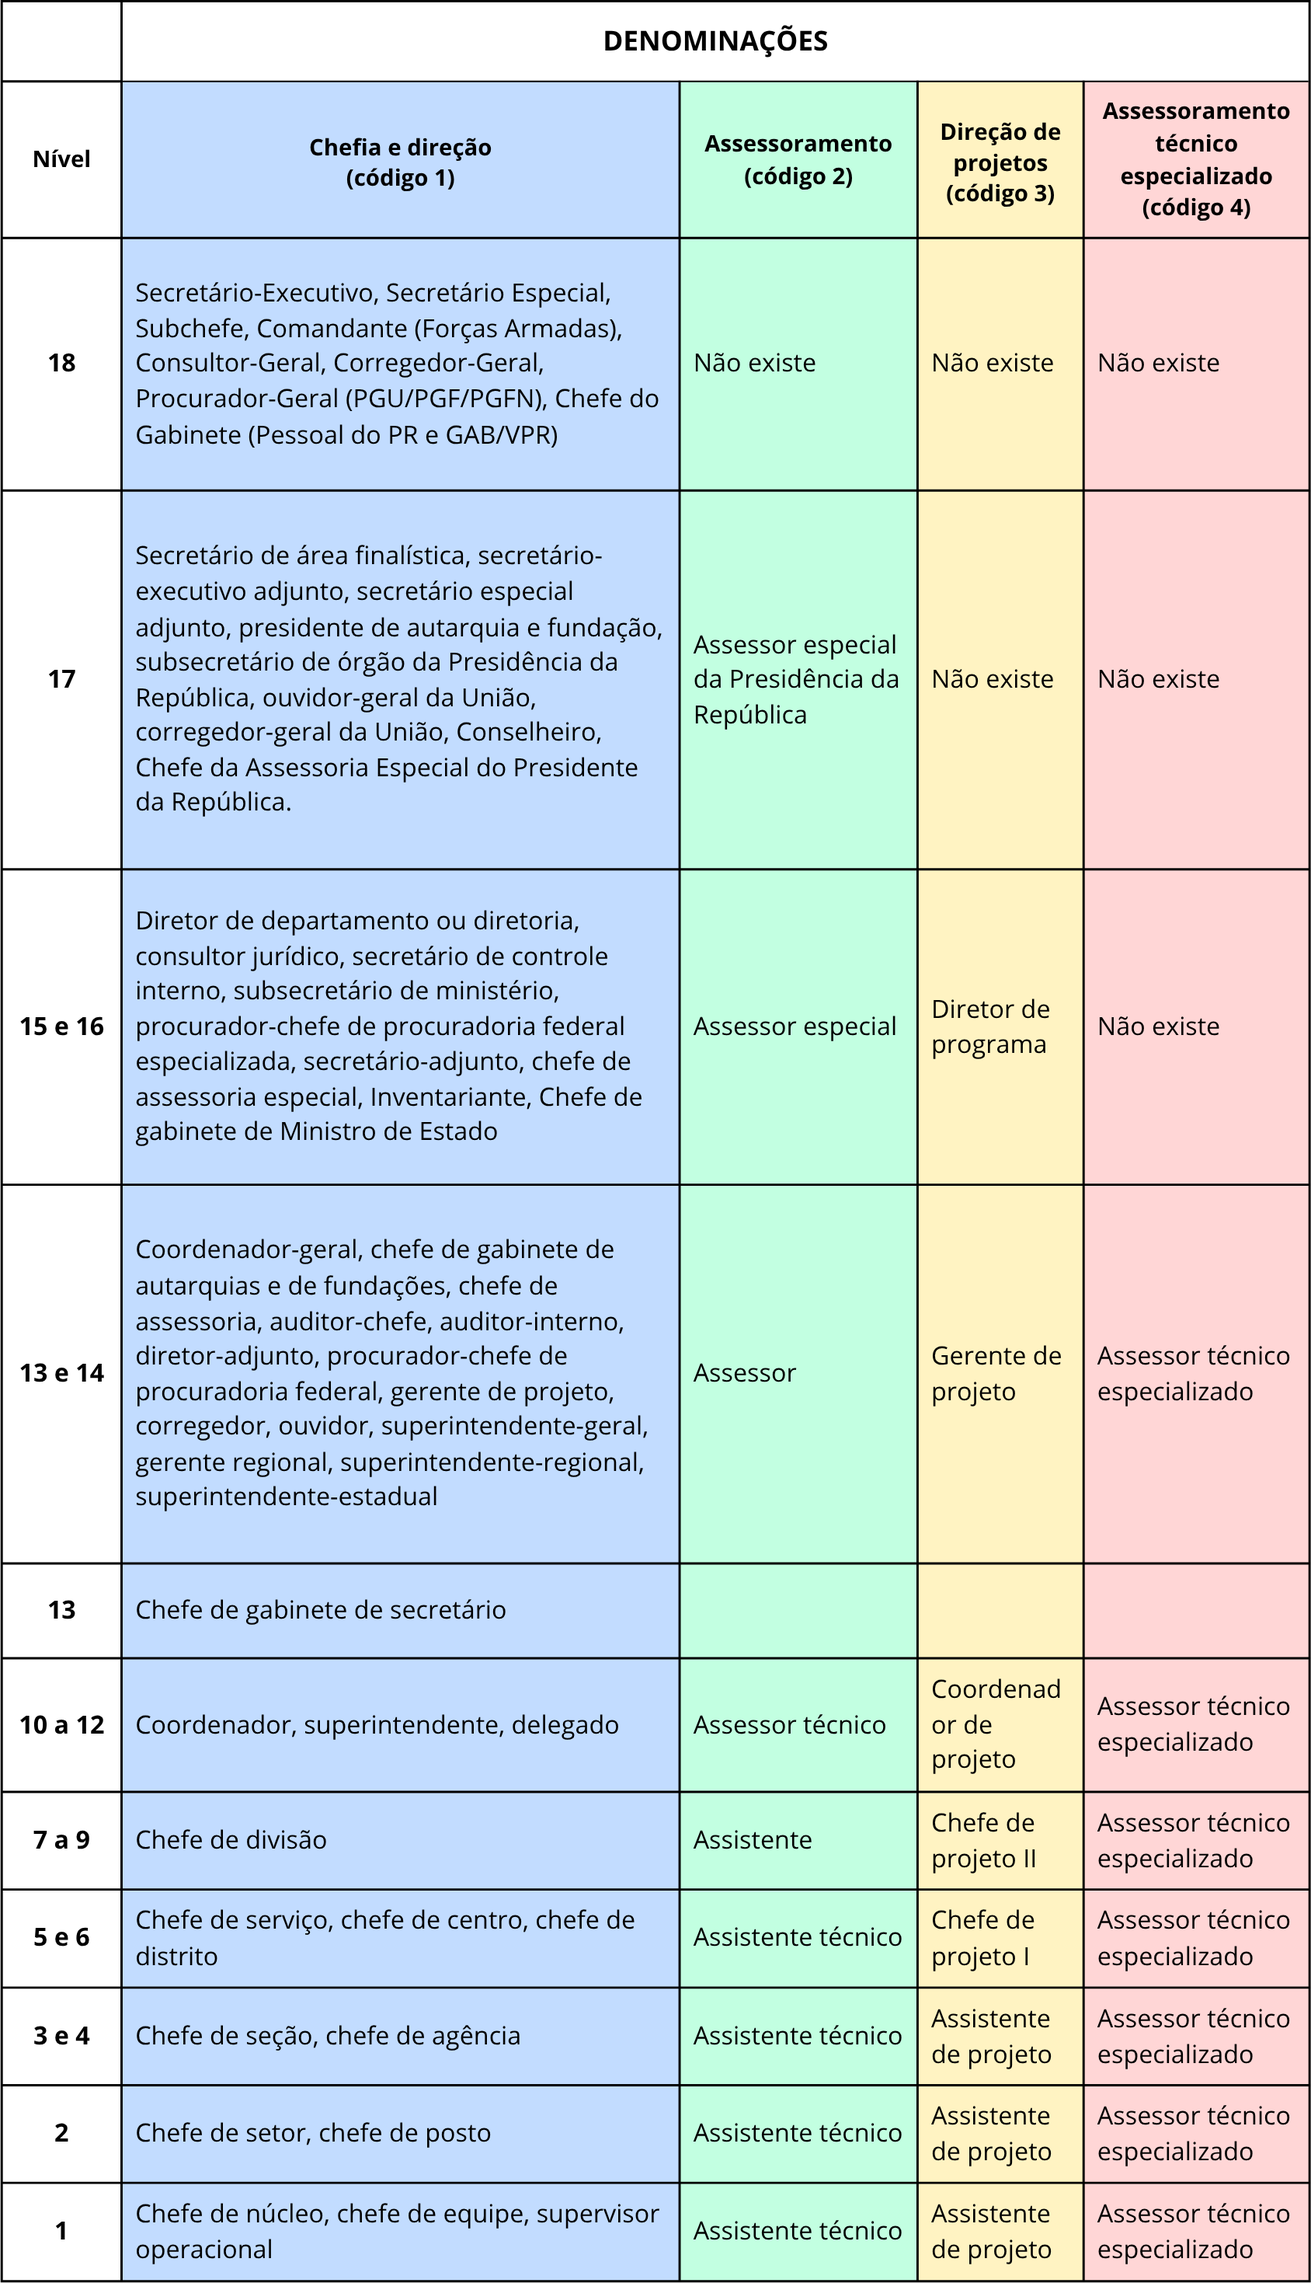
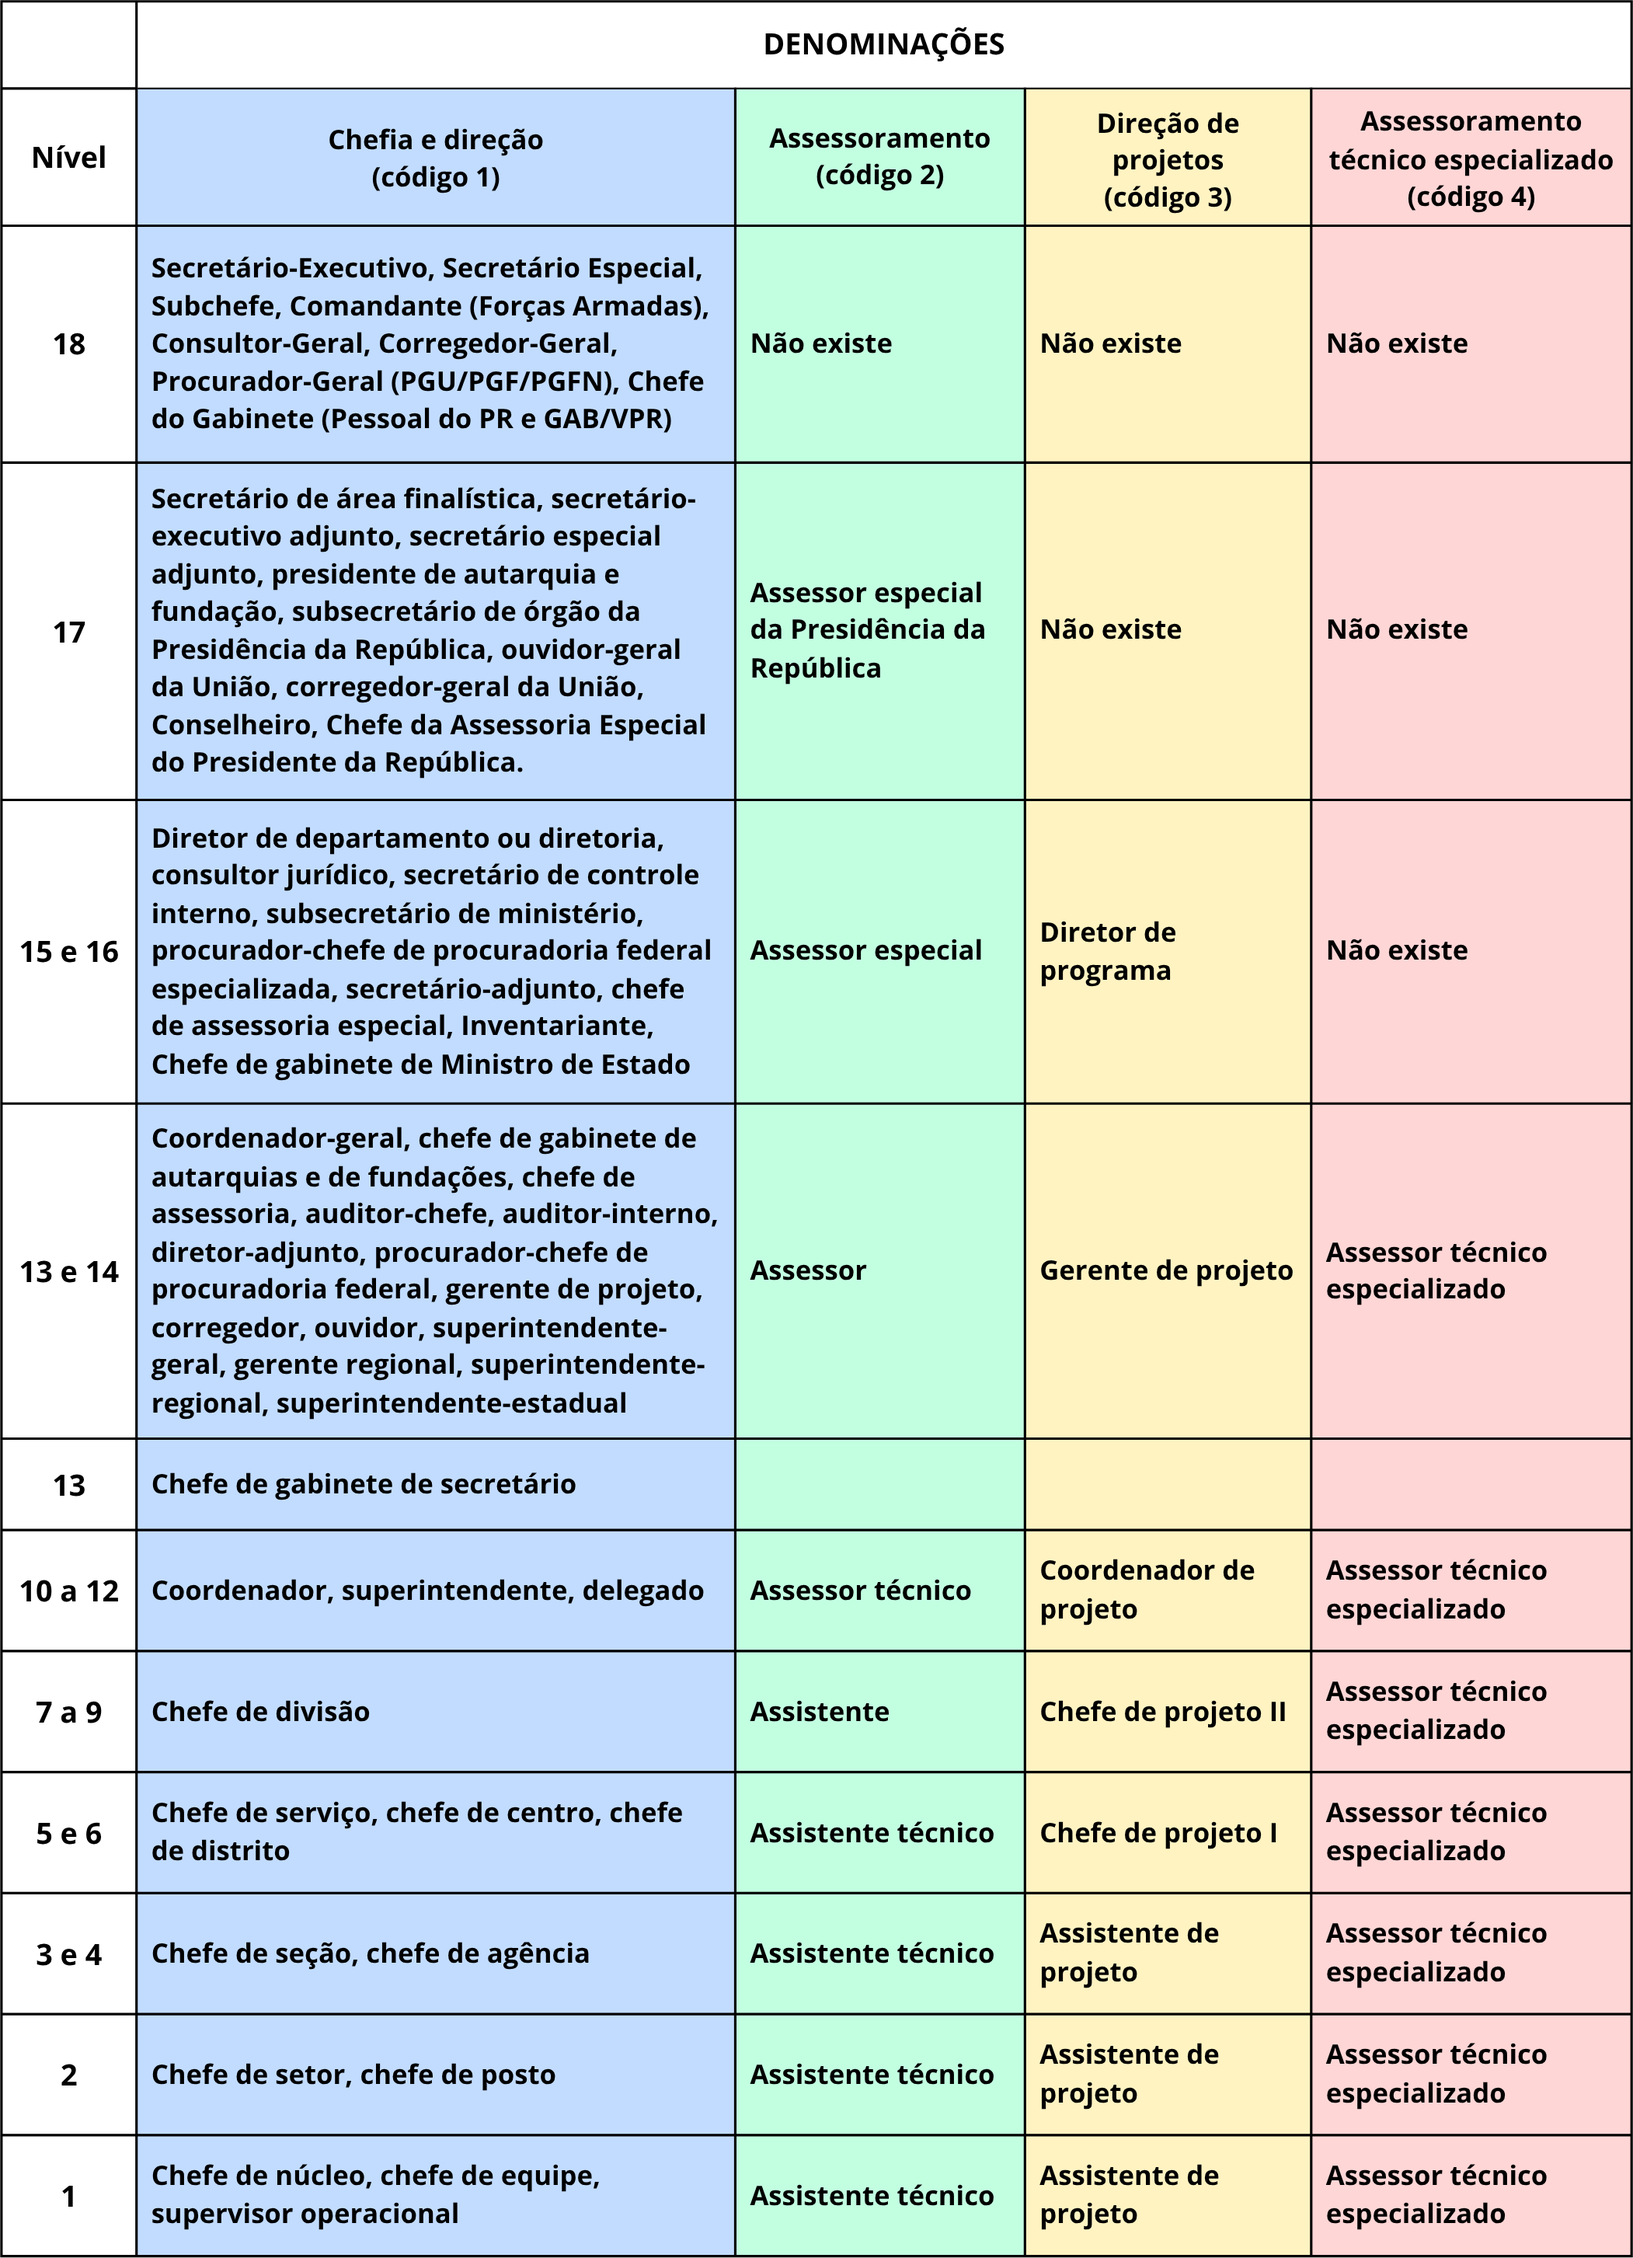
melhoramentos

diff --git a/docs/source/Cargos/index.rst b/docs/source/Cargos/index.rst
@@ -337,7 +337,7 @@ A :numref:`Denominacoes-CCE-FCE-label` apresenta as denominações associadas a 
 .. figure:: ../_static/images/Denominacoes_CCE_FCE.png
    :alt: Denominacoes das CCEs e FCEs
    :align: center
-   :scale: 75
+   :scale: 70
    :name: Denominacoes
 
    Denominações dos CCE e das FCE
